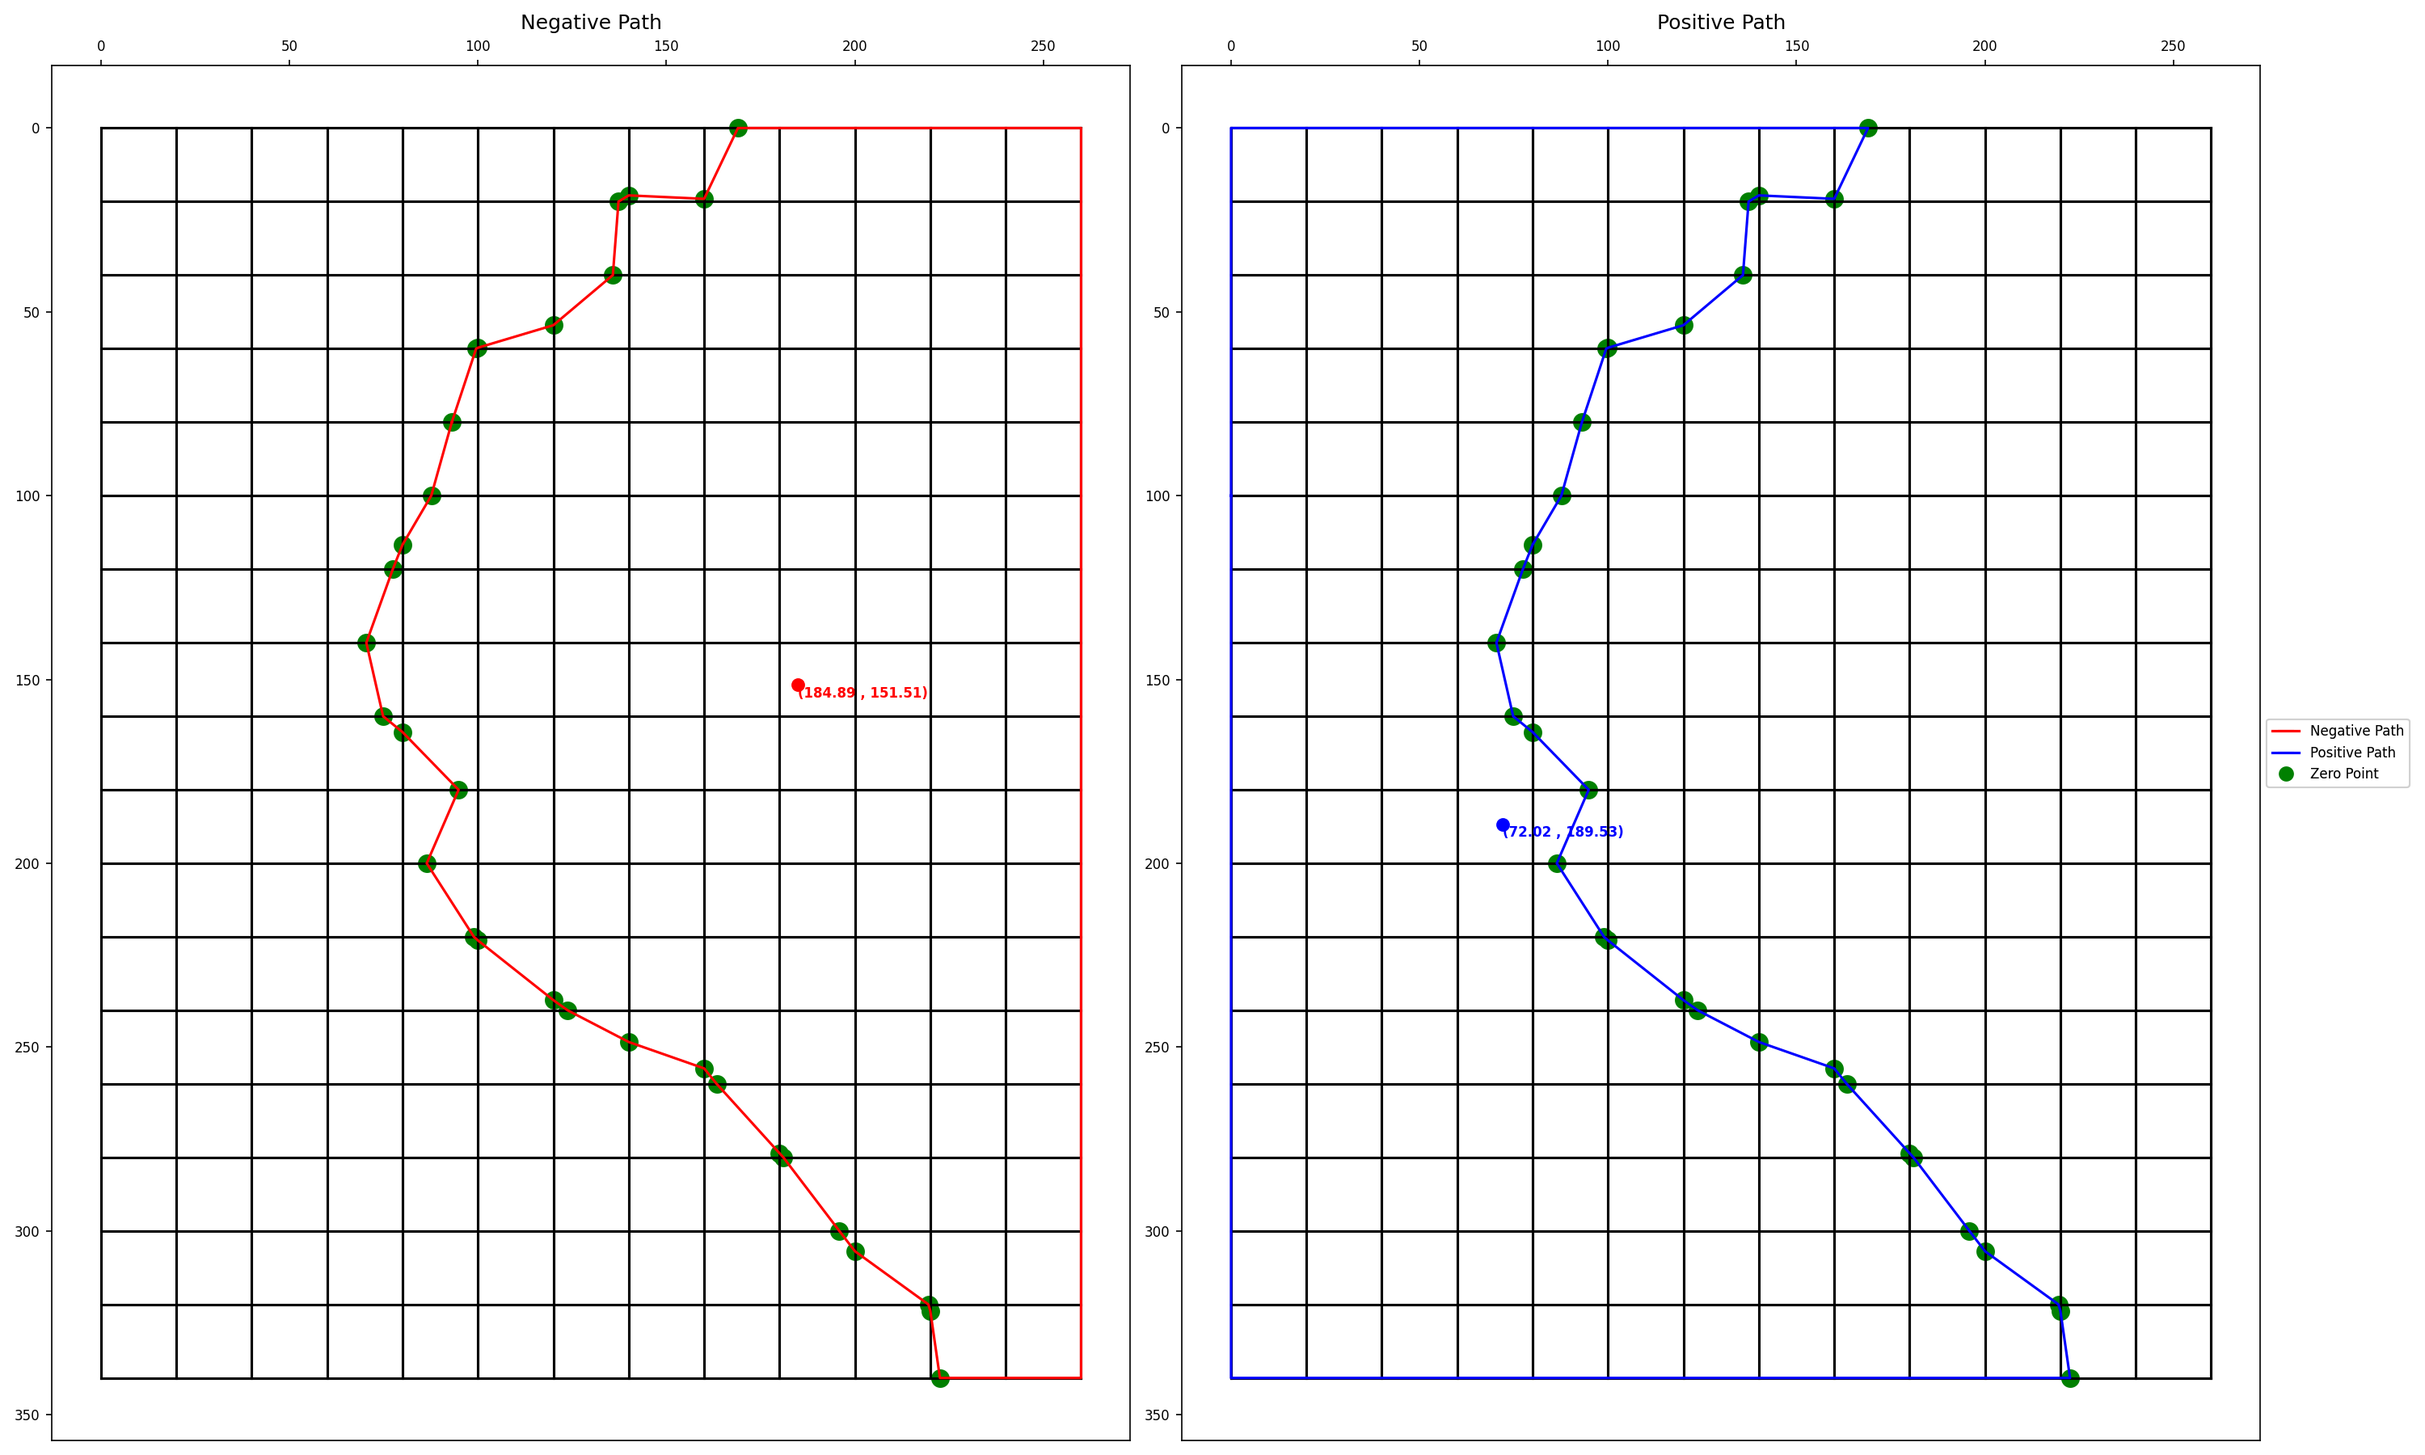
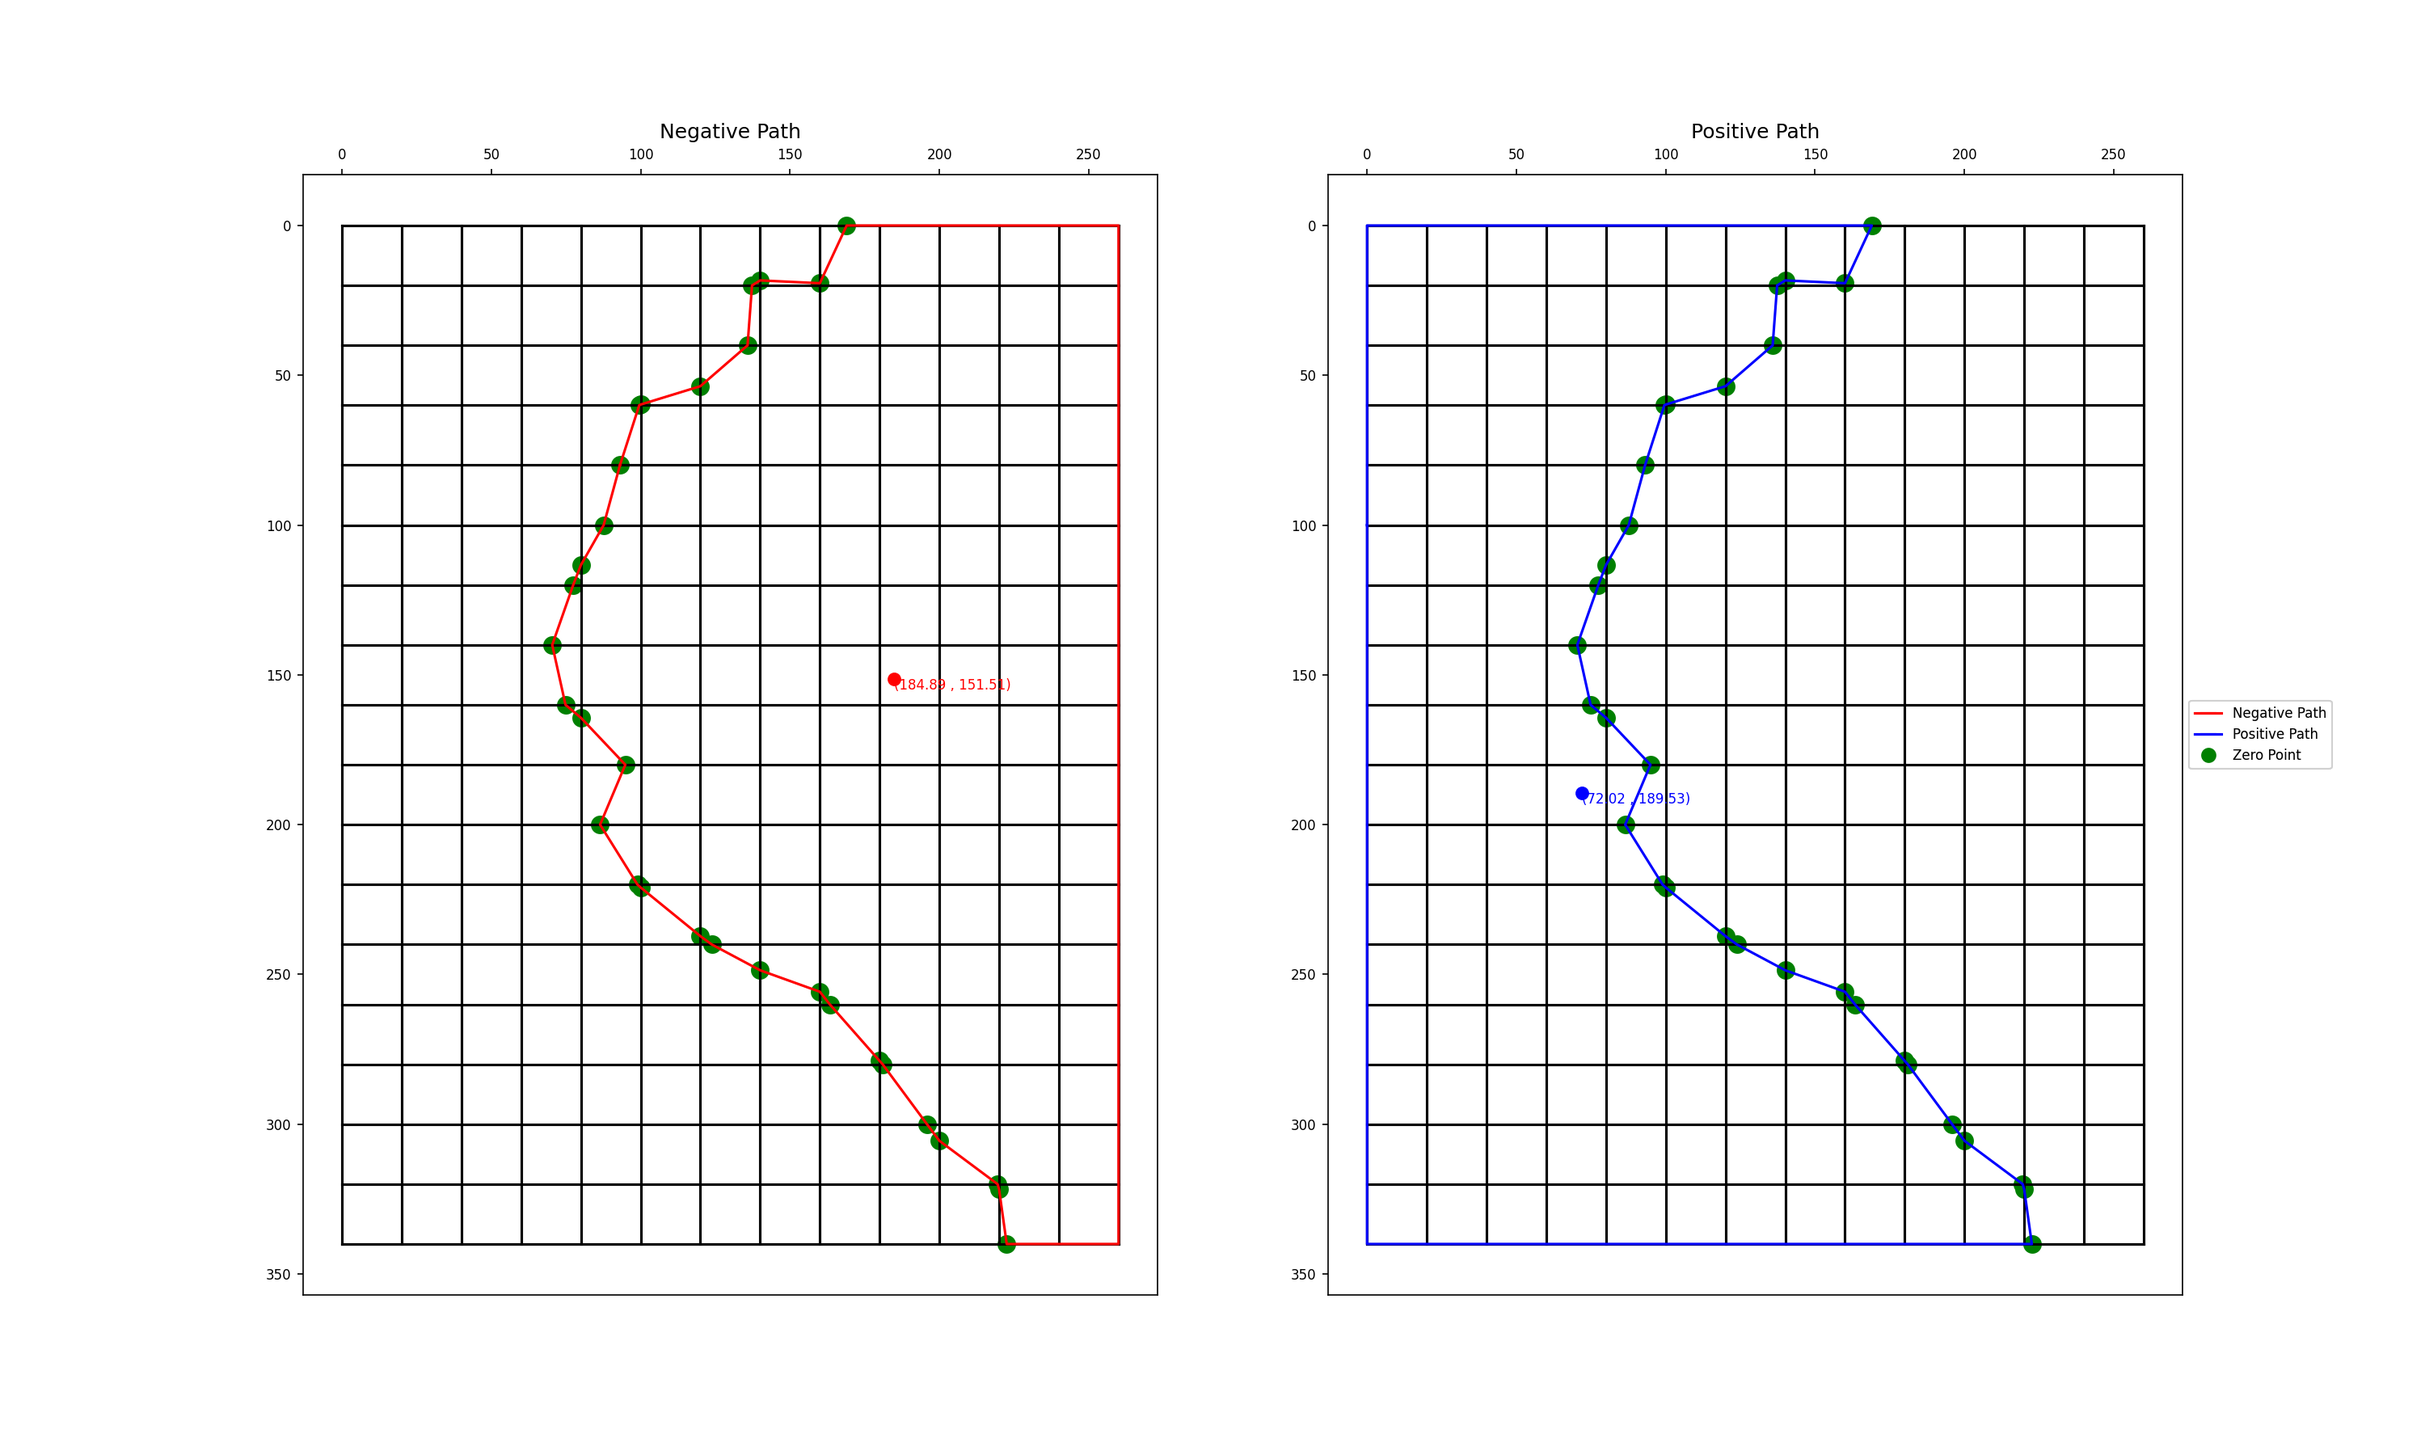
🥲

diff --git a/dataProcess.py b/dataProcess.py
@@ -18,8 +18,7 @@ net_shape = (14, 18)  # y x （列角点数目，行角点数目）
 # 拟平整场地后的最高点坐标 ， 根据坡度下降方向和坡面的形状确定
 center_point = (0, 0)  # y x
 
-
-# 坐标系 
+# 坐标系
 # ---->x 从左往右为 x
 # |
 # |
@@ -28,7 +27,7 @@ center_point = (0, 0)  # y x
 # 从上往下为 y
 
 
-#每个是方格网的一个角点原场地标高
+# 每个是方格网的一个角点原场地标高
 data = """
 230.63	230.16	230.55	230.86	230.78	230.65	230.98	230.61	230.15	230.17	230.08	229.35	229.38	229.16	228.76	228.18	227.55	227.65
 229.68	229.56	229.58	230.74	230.75	230.73	230.71	230.73	230.56	230.34	230.25	229.56	229.33	229.56	228.78	228.56	228.23	227.83
@@ -44,29 +43,78 @@ data = """
 226.94	227.14	227.16	227.18	227.66	228.26	228.24	228.22	228.22	228.28	227.82	227.84	227.88	227.64	227.15	226.84	225.62	225.34
 226.54	226.94	226.53	226.92	226.91	227.84	227.86	227.84	227.62	227.58	227.84	227.82	227.56	227.55	227.14	227.16	226.36	226.38
 226.4	226.16	226.17	226.36	226.38	227.42	227.44	227.62	227.34	227.58	227.46	226.74	226.75	227.42	227.41	227.45	226.52	226.54
-""".strip()
+"""
 
-linea = [[float(ii) for ii in i.split("\t") if ii] for i in data.split("\n")]
+# 或者使用二维数组输入数据
+# data = [
+#     [230.63, 230.16, 230.55, 230.86, 230.78, 230.65, 230.98, 230.61, 230.15, 230.17, 230.08, 229.35, 229.38, 229.16, 228.76, 228.18, 227.55, 227.65],
+#     [229.68, 229.56, 229.58, 230.74, 230.75, 230.73, 230.71, 230.73, 230.56, 230.34, 230.25, 229.56, 229.33, 229.56, 228.78, 228.56, 228.23, 227.83],
+#     [229.54, 229.26, 229.67, 230.77, 230.65, 230.57, 230.88, 230.76, 230.75, 230.54, 230.37, 229.75, 229.47, 229.37, 229.45, 228.62, 228.75, 228.81],
+#     [227.71, 228.45, 229.43, 229.52, 230.48, 230.65, 230.63, 230.72, 230.57, 230.25, 229.75, 229.74, 229.45, 229.43, 228.56, 228.57, 228.41, 228.43],
+#     [227.53, 228.25, 228.28, 229.62, 230.23, 230.27, 230.34, 230.37, 230.28, 229.86, 229.93, 229.52, 229.36, 229.34, 228.64, 228.62, 228.24, 228.22],
+#     [227.41, 228.85, 228.25, 229.87, 229.89, 229.88, 230.15, 230.24, 230.41, 229.65, 229.86, 229.48, 228.82, 228.56, 228.82, 228.25, 228.27, 227.94],
+#     [227.35, 228.84, 228.85, 229.46, 229.49, 229.86, 229.87, 229.89, 229.78, 229.75, 229.77, 229.84, 228.64, 228.44, 227.68, 227.83, 227.53, 227.88],
+#     [227.93, 228.83, 228.82, 229.46, 229.45, 229.35, 229.65, 229.63, 229.47, 229.49, 229.43, 229.38, 228.88, 227.25, 227.68, 227.73, 226.75, 226.73],
+#     [227.94, 228.16, 228.18, 228.74, 228.85, 229.31, 229.27, 229.28, 229.33, 229.17, 229.16, 229.18, 228.35, 227.35, 226.15, 225.73, 225.45, 225.47],
+#     [227.92, 227.83, 228.34, 228.32, 228.31, 228.64, 228.62, 229.32, 229.17, 229.16, 228.92, 228.91, 228.35, 227.95, 226.84, 225.74, 225.45, 224.45],
+#     [227.63, 227.58, 227.56, 227.64, 228.54, 228.28, 228.64, 228.66, 228.83, 228.54, 228.66, 228.24, 227.46, 227.44, 227.42, 226.54, 225.44, 224.56],
+#     [226.94, 227.14, 227.16, 227.18, 227.66, 228.26, 228.24, 228.22, 228.22, 228.28, 227.82, 227.84, 227.88, 227.64, 227.15, 226.84, 225.62, 225.34],
+#     [226.54, 226.94, 226.53, 226.92, 226.91, 227.84, 227.86, 227.84, 227.62, 227.58, 227.84, 227.82, 227.56, 227.55, 227.14, 227.16, 226.36, 226.38],
+#     [226.4, 226.16, 226.17, 226.36, 226.38, 227.42, 227.44, 227.62, 227.34, 227.58, 227.46, 226.74, 226.75, 227.42, 227.41, 227.45, 226.52, 226.54]
+# ]
 
-assert np.array(linea).shape == net_shape, "原场地标高数据格式错误"
+data_str_split_symbol = None
+
+linea = (
+    [
+        [
+            float(ii.strip())
+            for ii in (
+                (i.split("\t" if "\t" in data else i.split(" ")))
+                if not data_str_split_symbol
+                else i.split(data_str_split_symbol)
+            )
+            if ii.strip()
+        ]
+        for i in data.strip().split("\n")
+    ]
+    if isinstance(data, str)
+    else data
+)
+
+# print("原场地标高数据")
+# print(linea)
+
+assert (
+    np.array(linea).shape == net_shape
+), "原场地标高数据格式错误，应该是一个网格数据，二维数组"
 
 assert number_net == (net_shape[0] - 1) * (net_shape[1] - 1), "原场地标高数据格式错误"
+
 
 # 计算平整标高
 def c_h0(lists: list[list]):
 
     h1, h2, h3, h4 = 0, 0, 0, 0
-    maxindexy=net_shape[0]-1
-    maxindexx=net_shape[1]-1
-    # h1_point = set(list(product([0, 3], [0, 4])))  # 计算一次的点，角点  #(14, 18)
-    h1_point = set(list(product([0, maxindexy], [0, maxindexx])))  # 计算一次的点，角点  #(14, 18)
-    # h4_point = set(list(product([1, 2], [1, 2, 3])))  # 计算四次的点，两边交叉点
-    h4_point = set(list(product([i for i in range(1, maxindexy)], [i for i in range(1, maxindexx)])))
+    maxindexy = net_shape[0] - 1
+    maxindexx = net_shape[1] - 1
+    h1_point = set(list(product([0, maxindexy], [0, maxindexx])))  # 计算一次的点，角点
+    h4_point = set(
+        list(
+            product([i for i in range(1, maxindexy)], [i for i in range(1, maxindexx)])
+        )
+    )  # 计算四次的点，非边界边上的点
     h2_point = (
-        set(list(product([i for i in range(maxindexy+1)], [i for i in range(maxindexx+1)])))  # all
+        set(
+            list(
+                product(
+                    [i for i in range(maxindexy + 1)], [i for i in range(maxindexx + 1)]
+                )
+            )
+        )  # all
         - h1_point
         - h4_point
-    )  # 计算两次的点，非边界边上的点
+    )  # 计算两次的点，边界边上的点
     # h3_point = set(list(product([1, 2], [0, 4])))  # 计算三次的点，凹角点， 在四方的方格网上不会出现，具体情况具体分析
     for y, x_line in enumerate(lists):
         for x, data in enumerate(x_line):
@@ -105,7 +153,6 @@ def c_she_ji_biao_gao(lists: list[list], h0: float):
                 - abs(y - center_point[0]) * slope * lenth_net,  # 纵坡下降的标高
                 3,
             )
-            # print(y, x, data)
             line.append(data)
         results.append(line)
     return results

diff --git a/visualizeData.py b/visualizeData.py
@@ -207,9 +207,17 @@ def showNegativeAndPositivePath(gridNet: GridNet, savePath: str = None, dpi: int
             geoCenterPoint.y + GridNet().edge_length / 6,
             f"({round(geoCenterPoint.x,2)} , {round(geoCenterPoint.y,2)})",
             color="red",
-            weight="bold",
             size=8,
         )
+
+        # ax12[0].text(
+        #     geoCenterPoint.x,
+        #     geoCenterPoint.y + GridNet().edge_length / 2,
+        #     f"-{round(v,2)}",
+        #     color="red",
+        #     weight="bold",
+        #     size=8,
+        # )
 
         xs, ys = zip(*[(p.x, p.y) for p in path])
 
@@ -230,16 +238,23 @@ def showNegativeAndPositivePath(gridNet: GridNet, savePath: str = None, dpi: int
             geoCenterPoint.y + GridNet().edge_length / 6,
             f"({round(geoCenterPoint.x,2)} , {round(geoCenterPoint.y,2)})",
             color="blue",
-            weight="bold",
+            # weight="bold",
             size=8,
         )
+        # ax12[1].text(
+        #     geoCenterPoint.x,
+        #     geoCenterPoint.y + GridNet().edge_length / 2,
+        #     f"+{round(v,2)}",
+        #     color="blue",
+        #     weight="bold",
+        #     size=8,
+        # )
 
         xs, ys = zip(*[(p.x, p.y) for p in path])
 
         ax12[1].plot(xs, ys, color="blue")
 
         # 设置图表标题
-
         ax12[1].set_title("Positive Path")
 
     for i in range(2):
@@ -283,7 +298,7 @@ def showNegativeAndPositivePath(gridNet: GridNet, savePath: str = None, dpi: int
         handles=legend_elements12, loc="center left", bbox_to_anchor=(1, 0.5)
     )
 
-    fig12.tight_layout()
+    # fig12.tight_layout()
 
     fig12.add_artist(legend12)
 
@@ -369,7 +384,42 @@ def showData(gridNet: GridNet, savePath: str = None, dpi: int = 300):
     # table.set_fontsize(6)
     # table.scale(1, 2)
     ax.set_title("Grid Excavation and Filling Data Table")
-    fig.tight_layout()
+
+    legend_elements = [
+        Line2D(
+            [0],
+            [0],
+            marker="o",
+            color="w",
+            label="excavation quantity",
+            markersize=10,
+            markerfacecolor="red",
+        ),
+        Line2D(
+            [0],
+            [0],
+            marker="o",
+            color="w",
+            label="filling quantity",
+            markersize=10,
+            markerfacecolor="blue",
+        ),
+        Line2D(
+            [0],
+            [0],
+            marker="o",
+            color="w",
+            label="grid index",
+            markersize=10,
+            markerfacecolor="black",
+        ),
+    ]
+
+    legend = ax.legend(
+        handles=legend_elements, loc="center left", bbox_to_anchor=(1, 0.5)
+    )
+
+    # fig.tight_layout()
 
     if savePath and isinstance(savePath, str):
 

diff --git a/gridClass.py b/gridClass.py
@@ -1,6 +1,6 @@
 import numpy as np
 from rich import print
-from typing import Iterable, List, Union
+from typing import Iterable, List, Union, Optional
 import math
 from shapely.geometry import Point, Polygon, MultiPolygon
 from dataProcess import lenth_net
@@ -563,13 +563,13 @@ class GridNet:
         return paths
 
     # def calculateAmount of excavation and filling
-    def calculate_area(self, intersection):
+    def calculate_area(
+        self, intersection: Optional[Union[Polygon, MultiPolygon]] = None
+    ):
         """
         计算区域的填方或者挖方量，计算方法，多边形面积乘以多边形角点平均高程
         """
-
         if not intersection:
-
             return 0
         if isinstance(intersection, Polygon):
             polygons = [intersection]
@@ -578,9 +578,6 @@ class GridNet:
             polygons = intersection.geoms
         else:
             return 0
-
-        # print(polygons)
-
         total_area = 0
 
         for poly in polygons:
@@ -993,14 +990,23 @@ class GridNet:
 
             merged_vertices = []
             if isinstance(merged_polygon, Polygon):
+                # self.calculate_area()
+                # print("")
                 merged_vertices = list(merged_polygon.exterior.coords)
             elif isinstance(merged_polygon, MultiPolygon):
                 for poly in merged_polygon.geoms:
                     merged_vertices.append(list(poly.exterior.coords))
 
-            print(merged_vertices, np.array(merged_vertices).shape)
-
-            demension = len(np.array(merged_vertices).shape)
+            for vertexs in merged_vertices:
+                for vertex in vertexs:
+                    if isinstance(vertex, tuple) or isinstance(vertex, list):
+                        demension = 3
+                        break
+                    elif isinstance(vertex, float) or isinstance(vertex, int):
+                        demension = 2
+                        break
+                    else:
+                        raise ValueError("vertex type error !")
 
             if demension == 3:
 

diff --git a/main.py b/main.py
@@ -13,12 +13,12 @@ if __name__ == "__main__":
     # 每个都是方格网的一个点, 坐标系： 左上角是原点 从左到右为y,从上到下为x轴
     # 施工标高数据
     # np.array(设计标高) - np.array(原场地标高)
-    # data = [
-    #     [-0.44, -0.18, -0.47, 0.07, -0.71],
-    #     [0.56, -0.09, 0.22, 0.14, 0.05],
-    #     [-0.01, 0.12, -0.34, 0.05, -0.11],
-    #     [0.05, 0.21, 0.07, 0.19, -0.23],
-    # ]
+    data = [
+        [-0.44, -0.18, -0.47, 0.07, -0.71],
+        [0.56, -0.09, 0.22, 0.14, 0.05],
+        [-0.01, 0.12, -0.34, 0.05, -0.11],
+        [0.05, 0.21, 0.07, 0.19, -0.23],
+    ]
 
     data = 施工标高.tolist()
 

diff --git a/README.md b/README.md
@@ -18,3 +18,47 @@
 调整`dataProcess.py`中的网格和标高数据
 
 ![alt text](images/README/image.png)
+
+
+#### 数据格式
+
+网格数据data格式如下：
+
+```python
+#二维数组，每个元素为一个网格的角点的原场地标高
+# 坐标系
+#左上角为原点。坐标为（0，0）
+# ---->x 从左往右为 x 
+# |
+# |
+# |
+# y
+# 从上往下为 y
+data = [
+        [-0.44, -0.18, -0.47, 0.07, -0.71],
+        [0.56, -0.09,  0.22,  0.14, 0.05],
+        [-0.01, 0.12, -0.34,  0.05, -0.11],
+        [0.05,  0.21,   0.07,  0.19, -0.23],
+    ]
+```
+
+其他参数设置如下：
+
+```python
+# 纵坡 从上往下下降坡度
+slope = 0.03  # m/m ly 0.3%
+# 横坡 从左往右下降坡度
+cross_slope = 0.0025  # m/m lx 0.25%
+# 网格数
+number_net = 13 * 17  # （列角点数目 -1 ，行角点数目 -1 ） 个
+# 网格边长
+lenth_net = 20  # m
+# 网格形状
+net_shape = (14, 18)  # y x （列角点数目，行角点数目）
+
+# 拟平整场地后的最高点坐标 ， 根据坡度下降方向和坡面的形状确定
+center_point = (0, 0)  # y x 如果从左往右下降坡度，从上往下下降坡度那么最高点在左上角
+```
+
+
+**对于非规则场地的方格网，比如“T”形场地,建议是拆分成多个规则的长方形方格网，然后分别计算土方工程量，最后合并计算结果。不然数据处理会很复杂。**
